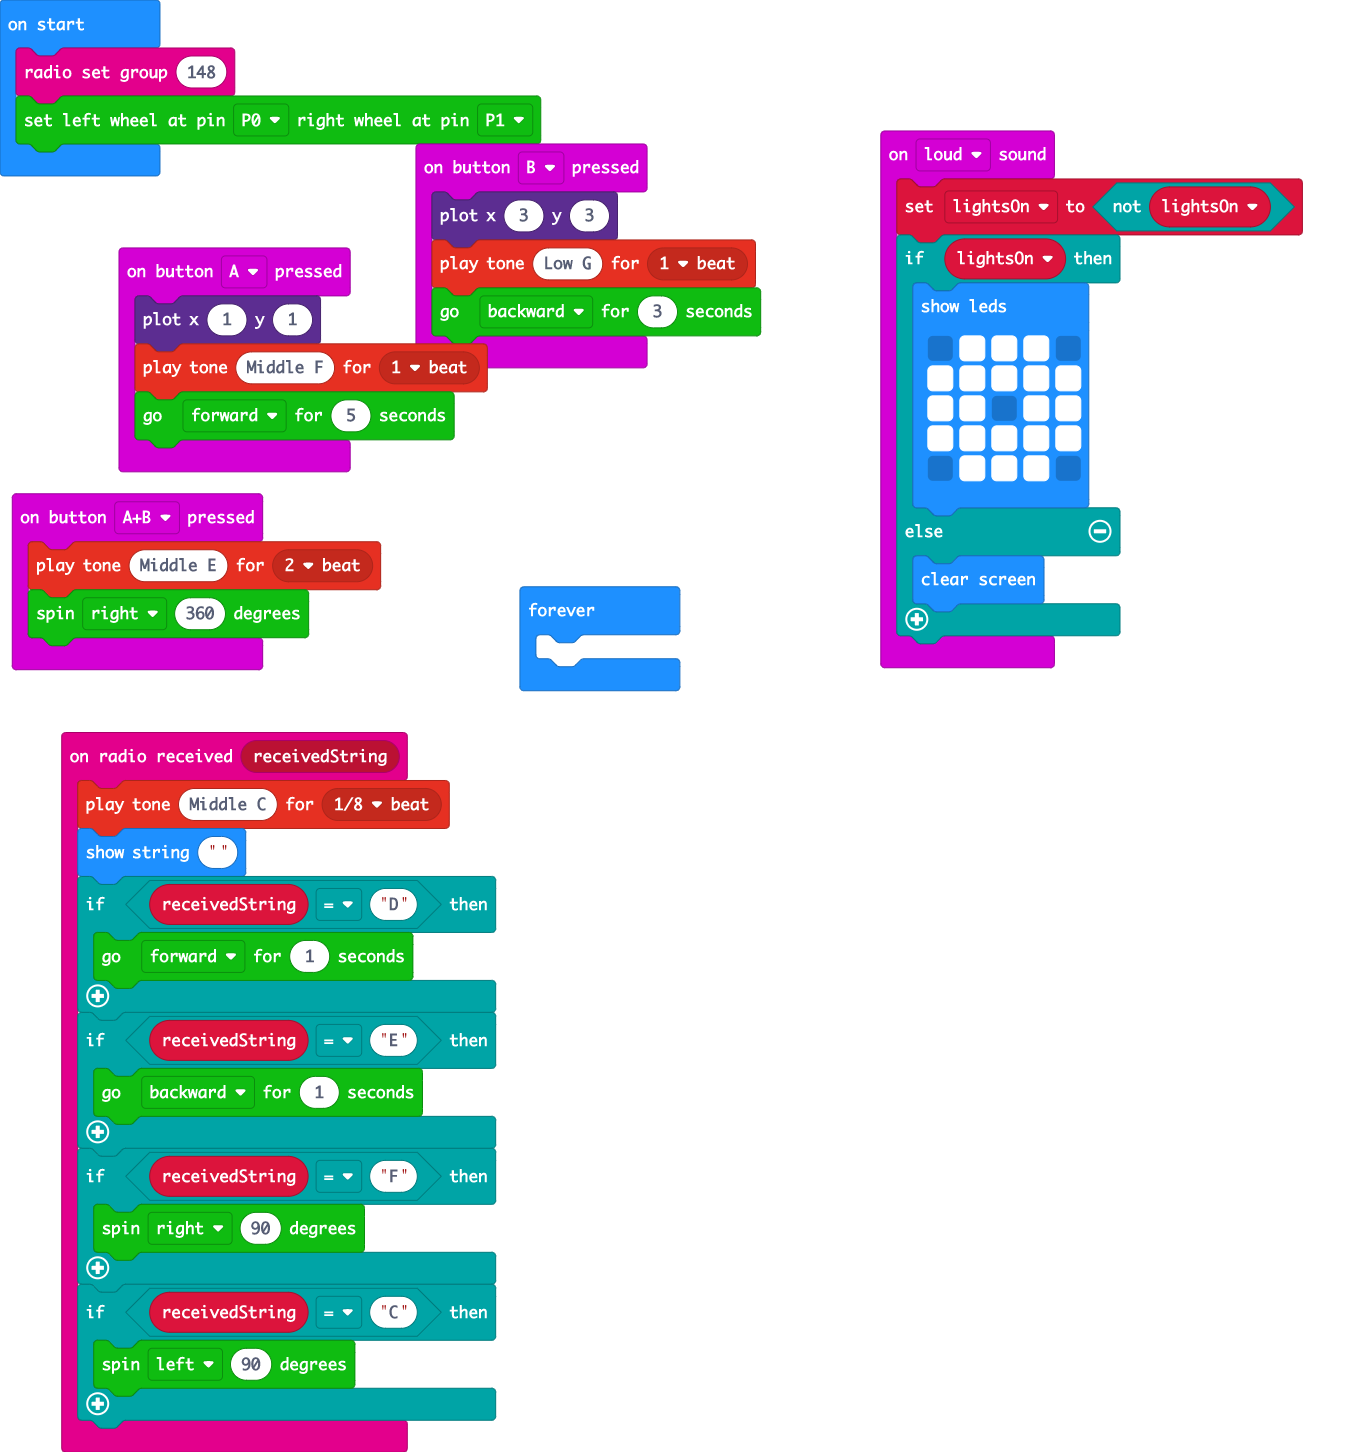
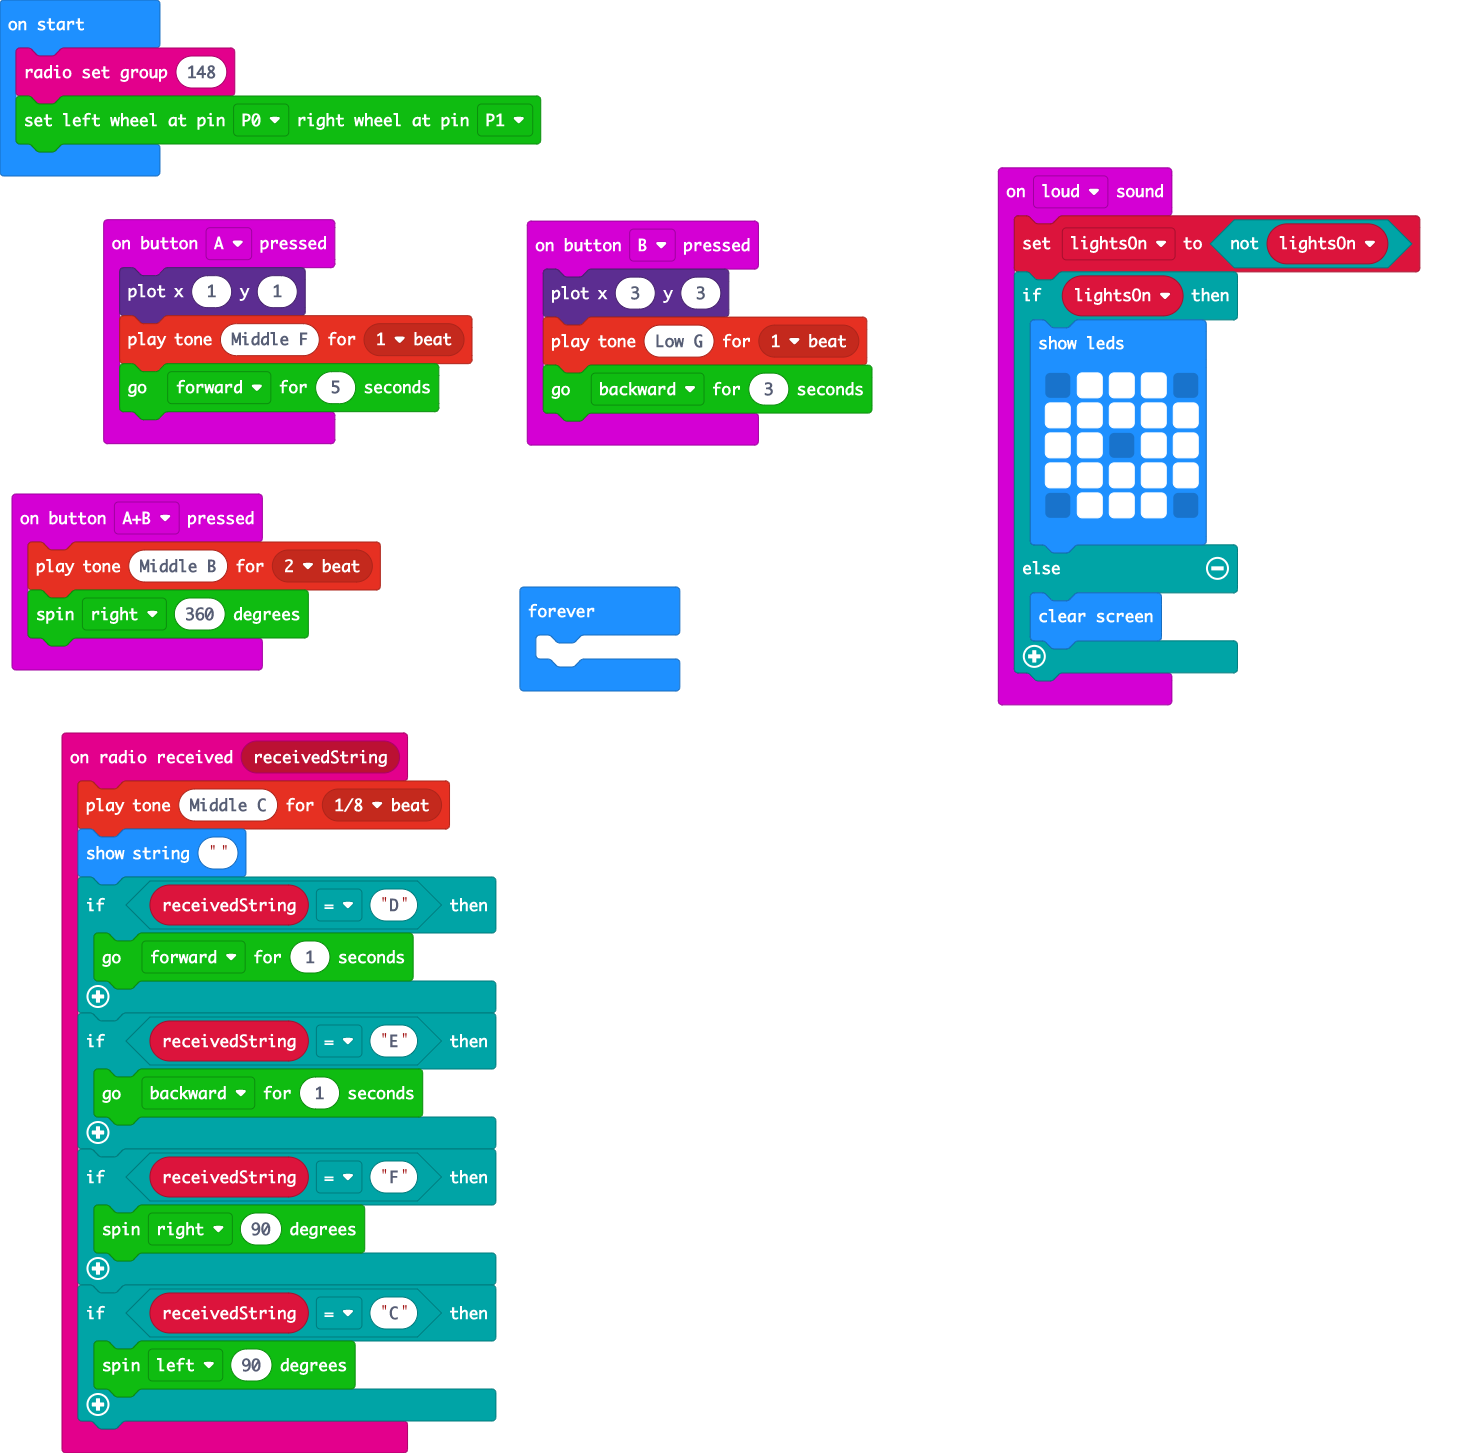
Change note when spinning.

diff --git a/main.ts b/main.ts
@@ -18,7 +18,7 @@ input.onSound(DetectedSound.Loud, function () {
     }
 })
 input.onButtonPressed(Button.AB, function () {
-    music.playTone(330, music.beat(BeatFraction.Double))
+    music.playTone(494, music.beat(BeatFraction.Double))
     RingbitCar.steering_angle(RingbitCar.Direction_turn.right, 360)
 })
 radio.onReceivedString(function (receivedString) {
